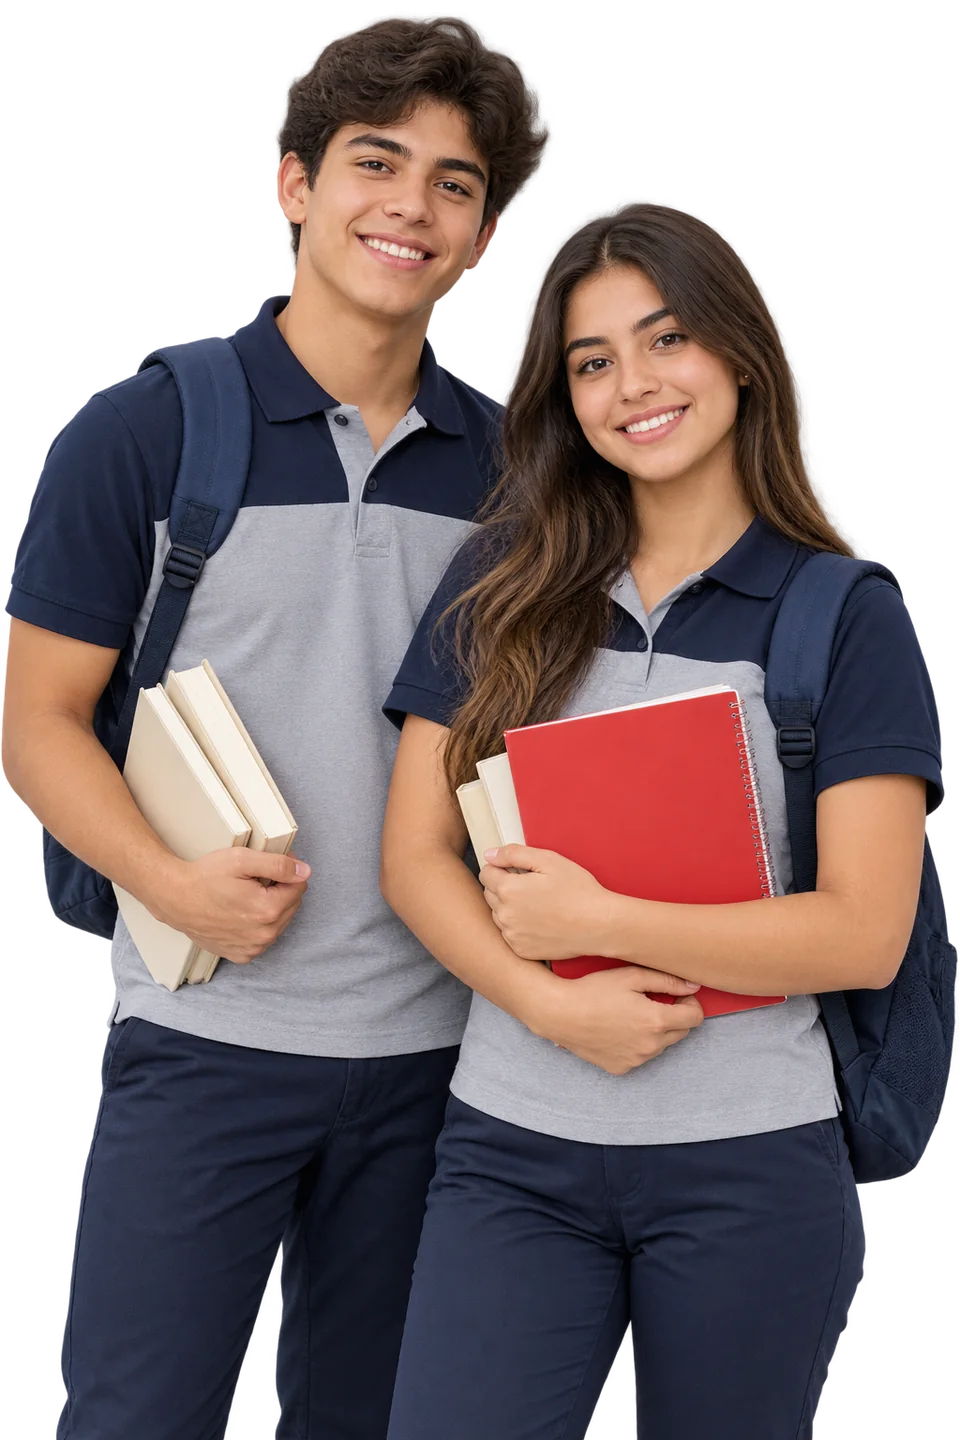
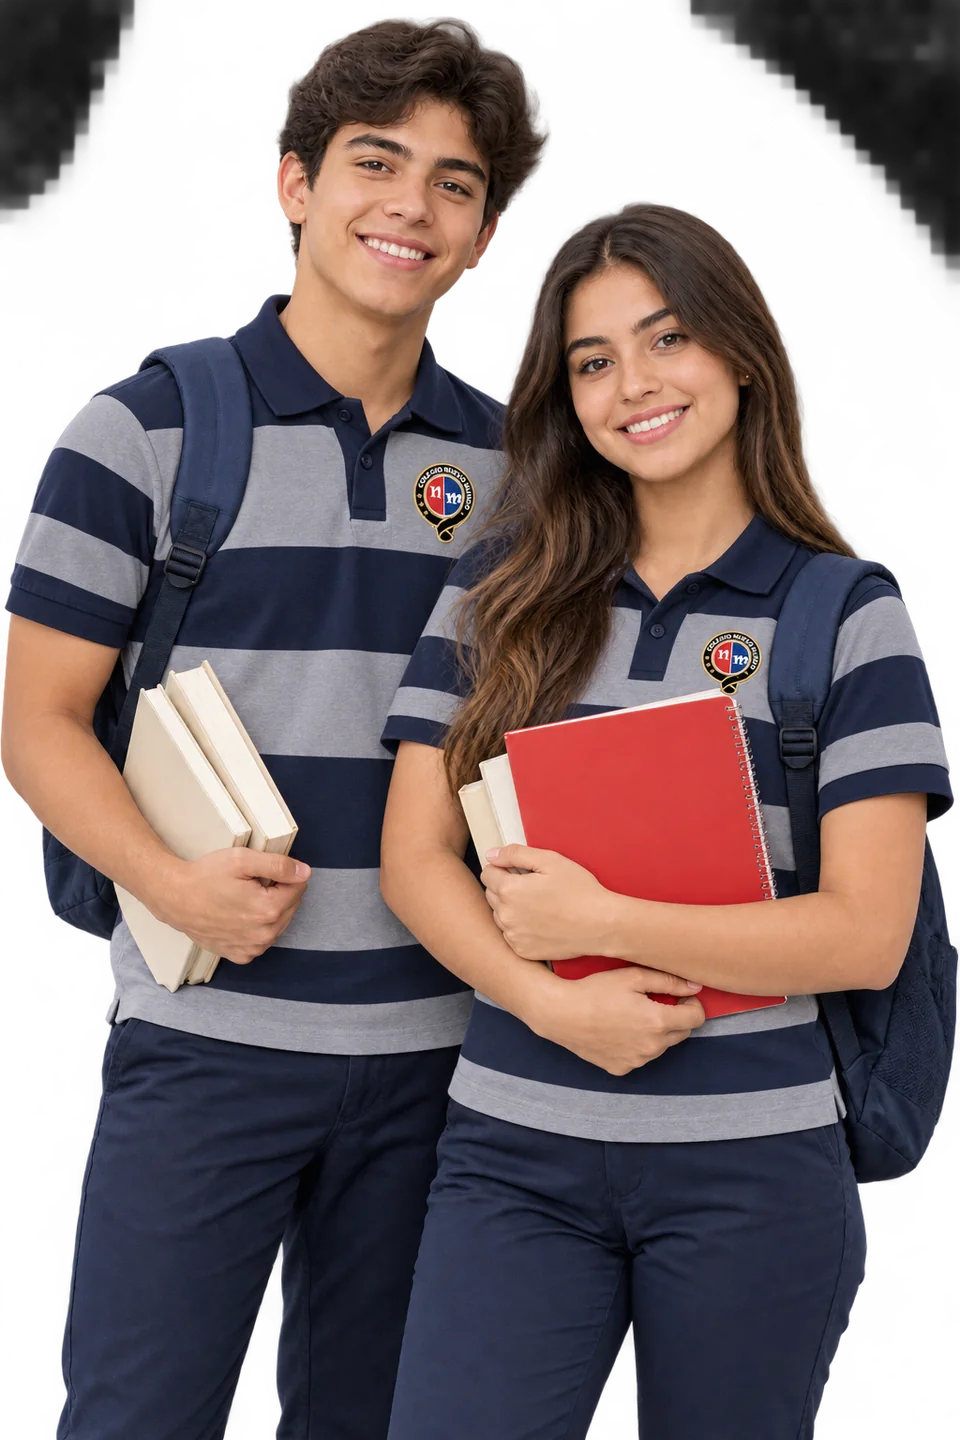
Actualizar uniforme de los personajes con franjas y escudo institucional

diff --git a/index.html b/index.html
@@ -6,7 +6,7 @@
 <div class="utility-bar"><div class="container utility-inner"><div class="utility-links"><a href="#institucion">CONOZCA EL COLEGIO</a><a href="/colegio-nuevo-mundo-preview/noticias/">NOTICIAS</a><a href="/colegio-nuevo-mundo-preview/admin/">PERSONAL</a></div><div class="utility-contact"><a href="https://www.facebook.com/colegionuevomundocr" target="_blank" rel="noopener noreferrer" aria-label="Facebook del Colegio Nuevo Mundo">Facebook <span aria-hidden="true">↗</span></a><a class="utility-phone" href="tel:+50622261746">2226-1746</a></div></div></div>
 <header class="header"><div class="container nav-wrap"><a class="brand" href="/colegio-nuevo-mundo-preview/" aria-label="Colegio Nuevo Mundo, inicio"><img class="brand-logo" src="/colegio-nuevo-mundo-preview/logo-240.webp" srcset="/colegio-nuevo-mundo-preview/logo-240.webp 240w, /colegio-nuevo-mundo-preview/logo-480.webp 480w" sizes="(max-width: 820px) 60px, 68px" width="240" height="245" alt="" decoding="async"><span>COLEGIO<strong>NUEVO MUNDO</strong><small>COSTA RICA</small></span></a><button class="menu-toggle" aria-controls="nav" aria-expanded="false">Menú <span aria-hidden="true">☰</span></button><nav id="nav" aria-label="Navegación principal"><a href="#institucion">Institución</a><a href="#oferta">Oferta académica</a><a href="#admisiones">Admisiones</a><a href="/colegio-nuevo-mundo-preview/noticias/">Noticias</a><a class="button small" href="#contacto">Más información <span aria-hidden="true">↗</span></a></nav></div></header>
 <main id="contenido">
-<section class="campaign-hero" aria-label="Conozca el Colegio Nuevo Mundo"><div class="campaign-orbit" aria-hidden="true"></div><div class="container campaign-grid"><figure class="campaign-photo"><img src="/colegio-nuevo-mundo-preview/estudiantes-960.webp" srcset="/colegio-nuevo-mundo-preview/estudiantes-480.webp 480w, /colegio-nuevo-mundo-preview/estudiantes-960.webp 960w" sizes="(max-width: 600px) 80vw, (max-width: 820px) 44vw, 46vw" width="960" height="1440" alt="Imagen ilustrativa de dos jóvenes con libros y mochilas" fetchpriority="high"><figcaption>Imagen ilustrativa</figcaption></figure><div class="campaign-copy"><p class="campaign-kicker" id="campaign-kicker">APRENDER. CRECER. TRASCENDER.</p><div aria-live="polite" aria-atomic="true"><h1><span id="campaign-title">Un nuevo mundo</span><strong id="campaign-highlight">para tu futuro.</strong></h1><p class="campaign-description" id="campaign-description">Cada etapa es una oportunidad para aprender, descubrir y crecer. Conozca nuestra comunidad educativa.</p></div><a class="campaign-button" id="campaign-link" href="#institucion">Conozca el colegio <span aria-hidden="true">↗</span></a><div class="campaign-controls" aria-label="Mensajes destacados"><div class="campaign-dots"><button type="button" data-campaign="0" aria-label="Presentación del colegio" aria-pressed="true"></button><button type="button" data-campaign="1" aria-label="Oferta académica" aria-pressed="false"></button><button type="button" data-campaign="2" aria-label="Admisiones" aria-pressed="false"></button></div><span id="campaign-count" aria-hidden="true">01 / 03</span><div class="campaign-arrows"><button type="button" id="campaign-previous" aria-label="Mensaje anterior">←</button><button type="button" id="campaign-next" aria-label="Mensaje siguiente">→</button></div></div></div></div><div class="hero-location">SAN FRANCISCO DE DOS RÍOS · SAN JOSÉ</div></section>
+<section class="campaign-hero" aria-label="Conozca el Colegio Nuevo Mundo"><div class="campaign-orbit" aria-hidden="true"></div><div class="container campaign-grid"><figure class="campaign-photo"><img src="/colegio-nuevo-mundo-preview/estudiantes-960.webp?v=2" srcset="/colegio-nuevo-mundo-preview/estudiantes-480.webp?v=2 480w, /colegio-nuevo-mundo-preview/estudiantes-960.webp?v=2 960w" sizes="(max-width: 600px) 80vw, (max-width: 820px) 44vw, 46vw" width="960" height="1440" alt="Imagen ilustrativa de dos jóvenes con libros y mochilas" fetchpriority="high"><figcaption>Imagen ilustrativa</figcaption></figure><div class="campaign-copy"><p class="campaign-kicker" id="campaign-kicker">APRENDER. CRECER. TRASCENDER.</p><div aria-live="polite" aria-atomic="true"><h1><span id="campaign-title">Un nuevo mundo</span><strong id="campaign-highlight">para tu futuro.</strong></h1><p class="campaign-description" id="campaign-description">Cada etapa es una oportunidad para aprender, descubrir y crecer. Conozca nuestra comunidad educativa.</p></div><a class="campaign-button" id="campaign-link" href="#institucion">Conozca el colegio <span aria-hidden="true">↗</span></a><div class="campaign-controls" aria-label="Mensajes destacados"><div class="campaign-dots"><button type="button" data-campaign="0" aria-label="Presentación del colegio" aria-pressed="true"></button><button type="button" data-campaign="1" aria-label="Oferta académica" aria-pressed="false"></button><button type="button" data-campaign="2" aria-label="Admisiones" aria-pressed="false"></button></div><span id="campaign-count" aria-hidden="true">01 / 03</span><div class="campaign-arrows"><button type="button" id="campaign-previous" aria-label="Mensaje anterior">←</button><button type="button" id="campaign-next" aria-label="Mensaje siguiente">→</button></div></div></div></div><div class="hero-location">SAN FRANCISCO DE DOS RÍOS · SAN JOSÉ</div></section>
 <section class="admissions-callout" aria-label="Información de admisiones"><div class="container"><div><span>SU PRÓXIMO PASO</span><h2>Conocer su colegio empieza con una conversación.</h2></div><a href="#admisiones">Conozca el proceso <span aria-hidden="true">→</span></a></div></section>
 <section class="home-shortcuts container" aria-label="Accesos principales"><a href="#primaria"><span class="shortcut-symbol" aria-hidden="true">Aa</span><div><span>I Y II CICLO</span><h2>Primaria</h2></div><span class="shortcut-arrow" aria-hidden="true">↗</span></a><a href="#secundaria"><span class="shortcut-symbol" aria-hidden="true">x²</span><div><span>III CICLO Y DIVERSIFICADA</span><h2>Secundaria</h2></div><span class="shortcut-arrow" aria-hidden="true">↗</span></a><a href="#admisiones"><span class="shortcut-symbol" aria-hidden="true">↗</span><div><span>INFORMACIÓN PARA FAMILIAS</span><h2>Admisiones</h2></div><span class="shortcut-arrow" aria-hidden="true">↗</span></a></section>
 <section id="institucion" class="section container intro"><div><p class="eyebrow">NUESTRA INSTITUCIÓN</p><h2>Educar también es<br><em>acompañar.</em></h2></div><div><p class="section-lead">Creemos en una formación que conecta el aprendizaje, el desarrollo personal y la participación de las familias.</p><p>El Colegio Nuevo Mundo es una institución educativa privada ubicada en San Francisco de Dos Ríos, San José. Nuestra propuesta de comunicación parte de una idea sencilla: que cada familia pueda encontrar información clara y conversar directamente con el colegio.</p><a class="text-link" href="#contacto">Conozcámonos <span aria-hidden="true">↗</span></a></div></section>
